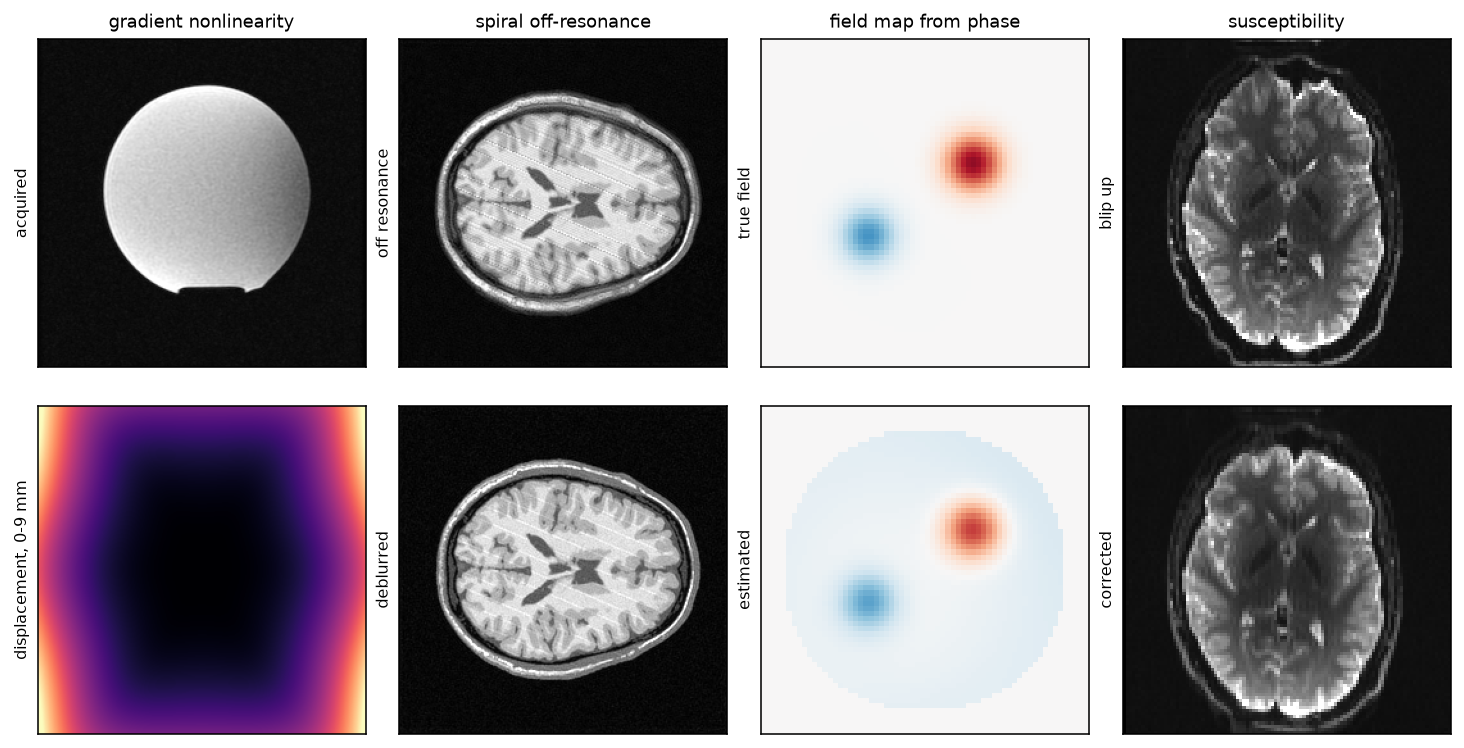
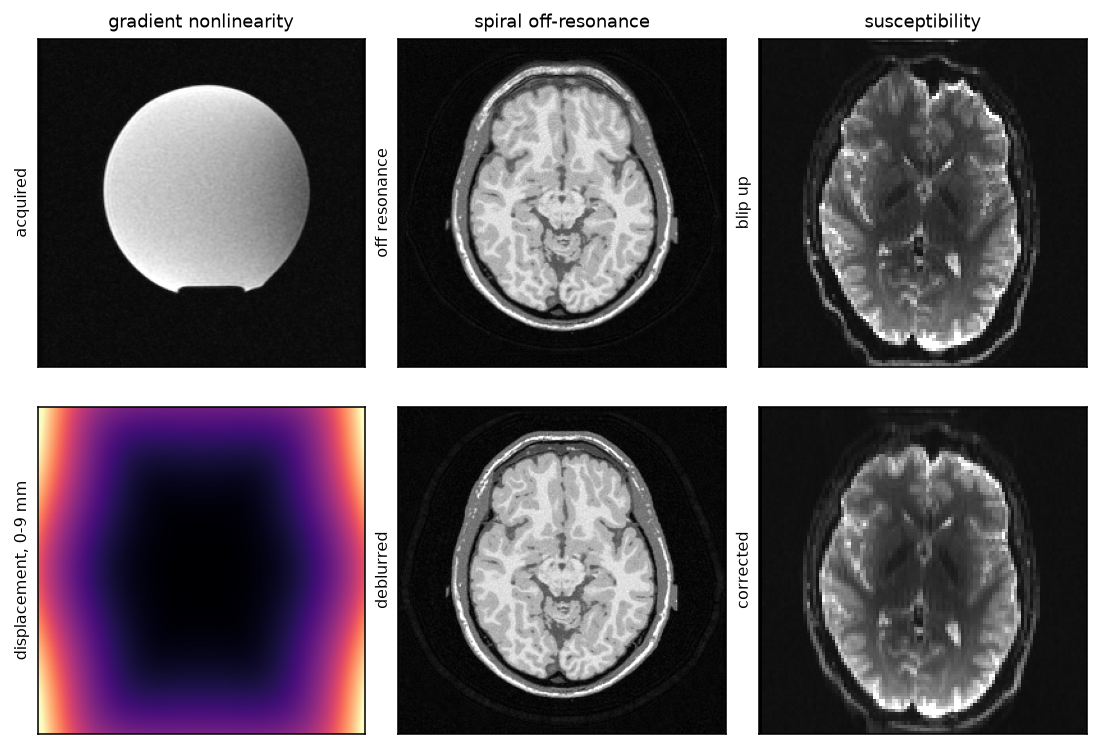
Blur the spiral example with a field its own tissue would make
The field map was two Gaussian lobes and a ramp, which is not a field map. It
is now the susceptibility forward model over BrainWeb's own tissue labels: air
at +9.4 ppm, cortical bone at -2.1, marrow -1.0, fat +0.6, convolved with the
dipole kernel and scaled at 127.7 Hz per ppm for 3 T. The lobes land at the
frontal sinus and the ear canals because that is where the air is, the brain
itself is near zero, and the head mean is removed because the scanner sets its
centre frequency. mri-nufft's make_b0map was not a useful reference here: it is
a radial ramp with no susceptibility in it.

Anterior now points to the top of the page. The concentric rings in the
previous figure were the field quantised to 32 levels for the exact forward
blur; 200 levels removes them.

The abstract field-map column is gone from the showcase. Deli-CS was the
alternative and it does not belong there: the phase-derived field improves
focus by 19 percent where the field exceeds 120 Hz but costs 4 percent over the
head as a whole, and what that looks like is lost contrast and edge ringing.
Field mapping keeps its own example.

diff --git a/examples/make_showcase.py b/examples/make_showcase.py
@@ -1,6 +1,6 @@
 """Build the figures the README shows.
 
-Two of the four columns use acquired data that is not in this repository:
+Two of the three columns use acquired data that is not in this repository:
 
 * gradient nonlinearity — a GE body gradient coil's own coefficient table, and
   the same volume corrected by the vendor's Orchestra ``GradwarpCorrector``, so
@@ -20,7 +20,7 @@ import matplotlib.pyplot as plt
 import numpy as np
 import torch
 
-import field_map_from_phase as phase_example
+from _brainweb import brain_and_field
 import gradient_nonlinearity as gradient_example
 import mrdistortion as mrd
 import spiral_deblurring as spiral_example
@@ -92,7 +92,7 @@ def gradient_column():
                 "acquired",
                 f"displacement, 0-{displacement.max():.0f} mm",
             ),
-            (image[:, :, middle], displacement[:, :, middle]),
+            (np.rot90(image[:, :, middle]), np.rot90(displacement[:, :, middle])),
             None,
         )
     size = 96
@@ -105,52 +105,41 @@ def gradient_column():
     middle = size // 2
     return (
         ("gradient nonlinearity (simulated)", "acquired", "corrected"),
-        (warp(lattice)[:, :, middle], lattice[:, :, middle]),
+        (np.rot90(warp(lattice)[:, :, middle]), np.rot90(lattice[:, :, middle])),
         dict(cmap="gray"),
     )
 
 
 def spiral_column():
-    size = 256
-    readout = 12e-3
+    """A BrainWeb slice blurred by the field its own tissue makes."""
+    size, readout = 256, 12e-3
+    truth, field, _ = brain_and_field(slice_index=60, size=size)
+    rows, columns = np.mgrid[0:size, 0:size] / (size / 2) - 1
+    truth = truth * np.exp(1j * 0.7 * (columns + 0.5 * rows))
     timing = mrd.ReadoutTiming.from_trajectory(
         spiral_example.variable_density_arm(), duration=readout
     )
-    transfer = mrd.fit_transfer(timing, band=250.0, terms=16)
+    transfer = mrd.fit_transfer(timing, band=260.0, terms=24)
     axis = np.fft.fftfreq(size) * 2
     squared = axis[:, None] ** 2 + axis[None, :] ** 2
     disc = squared <= 1.0
     times = np.interp(np.clip(squared, 0, 1), timing.squared_radius, timing.times)
-    truth = spiral_example.phantom(size)
-    rows, columns = np.mgrid[0:size, 0:size] / (size / 2) - 1
-    smooth = 200 * (0.7 * columns + 0.3 * rows)
-    levels = np.linspace(smooth.min(), smooth.max(), 32)
-    field = levels[np.abs(smooth[..., None] - levels).argmin(-1)]
+    levels = np.linspace(field.min(), field.max(), 200)
+    quantised = levels[np.abs(field[..., None] - levels).argmin(-1)]
     blurred = np.zeros(truth.shape, complex)
-    for value in np.unique(field):
+    for value in np.unique(quantised):
         blurred += np.fft.ifft2(
-            np.fft.fft2(truth * (field == value)) * disc
+            np.fft.fft2(truth * (quantised == value)) * disc
             * np.exp(2j * np.pi * value * readout * times)
         )
     corrected = mrd.deblur(
-        torch.from_numpy(blurred), torch.from_numpy(field), transfer
+        torch.from_numpy(blurred), torch.from_numpy(quantised), transfer
     ).numpy()
     top = np.percentile(np.abs(blurred), 99.5)
     return (
         ("spiral off-resonance", "off resonance", "deblurred"),
         (np.abs(blurred), np.abs(corrected)),
         dict(cmap="gray", vmin=0, vmax=top),
-    )
-
-
-def phase_column():
-    coils, truth, _ = phase_example.acquisition(64)
-    estimate = mrd.field_map_from_phase(coils, echo_time=0.7e-3, smoothing=1.5)
-    middle = 32
-    return (
-        ("field map from phase", "true field", "estimated"),
-        (truth[:, :, middle].numpy(), estimate[:, :, middle].numpy()),
-        dict(cmap="RdBu_r", vmin=-200, vmax=200),
     )
 
 
@@ -163,7 +152,8 @@ def epi_column():
         scale = lambda x: x / np.percentile(x, 99.5)
         return (
             ("susceptibility", "blip up", "corrected"),
-            (scale(acquired[:, :, middle]), scale(corrected[:, :, middle])),
+            (np.rot90(scale(acquired[:, :, middle])),
+             np.rot90(scale(corrected[:, :, middle]))),
             dict(cmap="gray", vmin=0, vmax=1.0),
         )
     up, down, _ = epi_example.displaced_pair()
@@ -180,20 +170,20 @@ def epi_column():
 
 
 def showcase() -> None:
-    columns = [gradient_column(), spiral_column(), phase_column(), epi_column()]
+    columns = [gradient_column(), spiral_column(), epi_column()]
     figure, axes = plt.subplots(2, len(columns), figsize=(2.6 * len(columns), 5.6))
     for index, ((heading, upper, lower), images, style) in enumerate(columns):
         for row, (image, label) in enumerate(zip(images, (upper, lower), strict=True)):
             axis = axes[row, index]
             if style is None:
                 axis.imshow(
-                    np.rot90(image),
+                    image,
                     cmap="gray" if row == 0 else "magma",
                     vmax=np.percentile(image, 99.5),
                     vmin=0,
                 )
             else:
-                axis.imshow(np.rot90(image), **style)
+                axis.imshow(image, **style)
             axis.set_xticks([])
             axis.set_yticks([])
             axis.set_ylabel(label, fontsize=8)

diff --git a/examples/spiral_deblurring.py b/examples/spiral_deblurring.py
@@ -18,6 +18,8 @@ import mrdistortion as mrd
 
 SIZE = 256
 READOUT_S = 12e-3
+BAND_HZ = 260.0
+TERMS = 24
 
 
 def variable_density_arm(samples: int = 1500) -> np.ndarray:
@@ -28,42 +30,23 @@ def variable_density_arm(samples: int = 1500) -> np.ndarray:
     return np.stack([radius * np.cos(angle), radius * np.sin(angle)], axis=1)
 
 
-def phantom(size: int) -> np.ndarray:
-    """A BrainWeb T1 slice, with the smooth object phase an acquisition has.
-
-    Off-resonance blur is a smearing of structure, so what it does is only
-    visible on something that has structure. Falls back to ellipses when
-    ``brainweb-dl`` is not installed, which understates the artefact.
-    """
-    rows, columns = np.mgrid[0:size, 0:size] / (size / 2) - 1
+def scene(size: int):
+    """A BrainWeb slice, the field its own tissue makes, and the head."""
     try:
-        from brainweb_dl import get_mri
-    except ImportError:
-        print("brainweb-dl not installed; falling back to ellipses")
-        image = np.zeros((size, size))
-        for row, column, height, width, value in (
-            (0.0, 0.0, 0.75, 0.60, 1.0),
-            (-0.15, 0.0, 0.25, 0.35, 0.55),
-            (0.32, -0.28, 0.13, 0.09, 0.8),
-            (0.32, 0.28, 0.13, 0.09, 0.8),
-        ):
-            inside = ((rows - row) / height) ** 2 + ((columns - column) / width) ** 2
-            image[inside <= 1] += value
-    else:
-        volume = get_mri(sub_id=4, contrast="T1")
-        image = np.asarray(volume[90], dtype=float)
-        image = image / image.max()
-        if image.shape[0] != size:
-            index = np.linspace(0, image.shape[0] - 1, size).round().astype(int)
-            image = image[np.ix_(index, index)]
-    return image * np.exp(1j * 0.7 * (columns + 0.5 * rows))
+        from _brainweb import brain_and_field
+    except ImportError:  # pragma: no cover
+        raise SystemExit("this example needs brainweb-dl and scipy") from None
+    image, field, mask = brain_and_field(slice_index=60, size=size)
+    rows, columns = np.mgrid[0:size, 0:size] / (size / 2) - 1
+    # The smooth object phase any acquisition carries.
+    return image * np.exp(1j * 0.7 * (columns + 0.5 * rows)), field, mask
 
 
 def main() -> None:
     timing = mrd.ReadoutTiming.from_trajectory(
         variable_density_arm(), duration=READOUT_S
     )
-    transfer = mrd.fit_transfer(timing, band=250.0, terms=16)
+    transfer = mrd.fit_transfer(timing, band=BAND_HZ, terms=TERMS)
     print(f"{transfer.terms} separable terms, "
           f"transfer error {transfer.error(timing):.4f}")
 
@@ -74,32 +57,27 @@ def main() -> None:
         np.clip(squared, 0, 1), timing.squared_radius, timing.times
     )
 
-    truth = phantom(SIZE)
+    truth, field, mask = scene(SIZE)
     ideal = np.fft.ifft2(np.fft.fft2(truth) * disc)
 
-    rows, columns = np.mgrid[0:SIZE, 0:SIZE] / (SIZE / 2) - 1
-    # +-250 Hz over a 12 ms readout is three cycles of accrued phase, which is
-    # what an air-tissue interface does and what makes the blur unmistakable.
-    smooth = 200 * (0.7 * columns + 0.3 * rows) + 90 * np.exp(
-        -((columns + 0.3) ** 2 + (rows - 0.3) ** 2) / 0.06
-    )
-    levels = np.linspace(smooth.min(), smooth.max(), 32)
-    field = levels[np.abs(smooth[..., None] - levels).argmin(-1)]
-
+    # Blur exactly, by summing over the distinct values of a quantised field.
+    # Coarse quantisation shows up as concentric rings, so use plenty of levels.
+    levels = np.linspace(field.min(), field.max(), 200)
+    quantised = levels[np.abs(field[..., None] - levels).argmin(-1)]
     blurred = np.zeros_like(ideal)
-    for value in np.unique(field):
-        selected = np.fft.fft2(truth * (field == value)) * disc
+    for value in np.unique(quantised):
+        selected = np.fft.fft2(truth * (quantised == value)) * disc
         blurred += np.fft.ifft2(
             selected * np.exp(2j * np.pi * value * READOUT_S * times)
         )
 
     corrected = mrd.deblur(
-        torch.from_numpy(blurred), torch.from_numpy(field), transfer
+        torch.from_numpy(blurred), torch.from_numpy(quantised), transfer
     ).numpy()
 
     error = lambda x: np.linalg.norm(x - ideal) / np.linalg.norm(ideal)
-    print(f"field {field.min():+.0f} .. {field.max():+.0f} Hz over a "
-          f"{READOUT_S * 1e3:.0f} ms readout")
+    print(f"field in the head {field[mask].mean():+.0f} +- {field[mask].std():.0f} Hz, "
+          f"up to {field[mask].max():+.0f}, over a {READOUT_S * 1e3:.0f} ms readout")
     print(f"error: blurred {error(blurred):.4f} -> corrected {error(corrected):.4f}")
 
     figure, axes = plt.subplots(1, 4, figsize=(15, 4.2))
@@ -113,7 +91,8 @@ def main() -> None:
         axis_.set_title(title)
         axis_.set_xticks([])
         axis_.set_yticks([])
-    shown = axes[3].imshow(field, cmap="RdBu_r", vmin=-300, vmax=300)
+    shown = axes[3].imshow(np.where(mask, field, np.nan), cmap="jet",
+                           vmin=-200, vmax=200)
     axes[3].set_title("field map")
     axes[3].set_xticks([])
     axes[3].set_yticks([])

diff --git a/examples/_brainweb.py b/examples/_brainweb.py
@@ -1,0 +1,98 @@
+"""A BrainWeb slice and the field its own tissue would produce.
+
+The anatomy is BrainWeb subject 4. The field map is not invented: it is the
+susceptibility forward model applied to BrainWeb's own tissue labels, so the
+lobes sit where the air actually is -- the frontal sinus, the ear canals -- and
+the brain itself is near zero, which is what a shimmed head looks like.
+
+Susceptibility relative to water, in ppm: air +9.4, cortical bone -2.1, marrow
+-1.0, fat +0.6. The field follows from the dipole kernel
+``1/3 - kz^2/|k|^2``, and ``127.7 Hz`` is one ppm at 3 T.
+"""
+
+from __future__ import annotations
+
+import numpy as np
+
+CHEMICAL_SHIFT_PPM = {"air": 9.4, "bone": -2.1, "marrow": -1.0, "fat": 0.6}
+HZ_PER_PPM_AT_3T = 127.7
+SHAPE = (181, 256, 256)
+
+
+def _susceptibility(labels: np.ndarray) -> np.ndarray:
+    """Susceptibility in ppm for each BrainWeb tissue label."""
+    from brainweb_dl import BrainWebTissuesV2 as tissue
+
+    chi = np.zeros(labels.shape, dtype=np.float32)
+    for label, key in (
+        (tissue.BACKGROUND, "air"),
+        (tissue.SKULL, "bone"),
+        (tissue.BONE_MARROW, "marrow"),
+        (tissue.FAT, "fat"),
+        (tissue.AROUND_FAT, "fat"),
+    ):
+        chi[labels == label.value] = CHEMICAL_SHIFT_PPM[key]
+    return chi
+
+
+def _field_from_susceptibility(chi: np.ndarray) -> np.ndarray:
+    """Off-resonance in Hz from a susceptibility distribution, at 3 T."""
+    margin = [size // 4 for size in chi.shape]
+    padded = np.pad(chi, [(m, m) for m in margin], mode="edge")
+    axes = np.meshgrid(
+        *[np.fft.fftfreq(size) for size in padded.shape], indexing="ij"
+    )
+    squared = sum(axis**2 for axis in axes)
+    squared[0, 0, 0] = 1.0
+    kernel = 1.0 / 3.0 - axes[0] ** 2 / squared
+    kernel[0, 0, 0] = 0.0
+    field = np.real(np.fft.ifftn(np.fft.fftn(padded) * kernel))
+    inner = tuple(
+        slice(m, m + size) for m, size in zip(margin, chi.shape, strict=True)
+    )
+    return HZ_PER_PPM_AT_3T * field[inner]
+
+
+def brain_and_field(slice_index: int = 60, size: int = 256):
+    """One axial slice, the field it sits in, and where the head is.
+
+    Parameters
+    ----------
+    slice_index
+        Which axial slice. Lower is more inferior and closer to the sinuses,
+        so the field is stronger there.
+    size
+        Matrix size to return.
+
+    Returns
+    -------
+    image, field, mask
+        The T1 slice normalised to a peak of one, off-resonance in Hz, and the
+        head. All shaped ``(size, size)`` with anterior at the top.
+    """
+    from scipy.ndimage import gaussian_filter
+
+    from brainweb_dl import Segmentation, get_mri
+
+    labels = np.rint(
+        np.asarray(get_mri(sub_id=4, contrast=Segmentation.CRISP, shape=SHAPE))
+    ).astype(np.int16)
+    volume = np.asarray(get_mri(sub_id=4, contrast="T1"), dtype=float)
+
+    field = _field_from_susceptibility(_susceptibility(labels))
+    # Tissue labels are piecewise constant and a measured field never is; and
+    # the scanner sets its centre frequency, so the head mean is zero.
+    field = gaussian_filter(field, 1.5)
+    head = labels != 0
+    field = field - field[head].mean()
+
+    turn = lambda plane: np.rot90(plane, 2)  # anterior to the top
+    image = turn(volume[slice_index])
+    image = image / image.max()
+    field = turn(field[slice_index])
+    mask = turn(head[slice_index])
+    if image.shape[0] != size:
+        index = np.linspace(0, image.shape[0] - 1, size).round().astype(int)
+        picked = np.ix_(index, index)
+        image, field, mask = image[picked], field[picked], mask[picked]
+    return image, field, mask

diff --git a/README.md b/README.md
@@ -26,6 +26,10 @@ field, which a single-echo acquisition already carries in its phase.
 The gradient and susceptibility columns are acquired data: a GE body gradient
 coil's own coefficient table applied to a phantom it was measured on, and a
 spin-echo EPI pair from [OpenNeuro ds003653](https://openneuro.org/datasets/ds003653).
+The spiral column blurs a BrainWeb slice with the field its own tissue would
+produce -- the susceptibility forward model over BrainWeb's tissue labels, so
+the lobes sit at the frontal sinus and the ear canals rather than wherever an
+invented map put them.
 Against the vendor's own Orchestra `GradwarpCorrector` on that volume, this
 package agrees to **correlation 0.999876, nRMSE 1.3%** — the difference is a
 sub-voxel rim at the phantom's sharpest edge
@@ -115,6 +119,7 @@ Each runs on its own and writes the figure it describes:
 | [`gradient_nonlinearity.py`](examples/gradient_nonlinearity.py) | A lattice bent by a third-order coil, and the displacement in millimetres |
 | [`spiral_deblurring.py`](examples/spiral_deblurring.py) | Blur simulated exactly from a quantised field, then removed |
 | [`field_map_from_phase.py`](examples/field_map_from_phase.py) | Two localised lobes recovered from coil phase alone |
+| [`_brainweb.py`](examples/_brainweb.py) | The BrainWeb slice and the field its tissue makes, shared by the above |
 | [`susceptibility.py`](examples/susceptibility.py) | A reversed-polarity pair brought back into register |
 | [`make_showcase.py`](examples/make_showcase.py) | The figures above, from acquired data when `GRADWARP_DATA` and `EPI_DATA` point at it, simulated otherwise |
 
